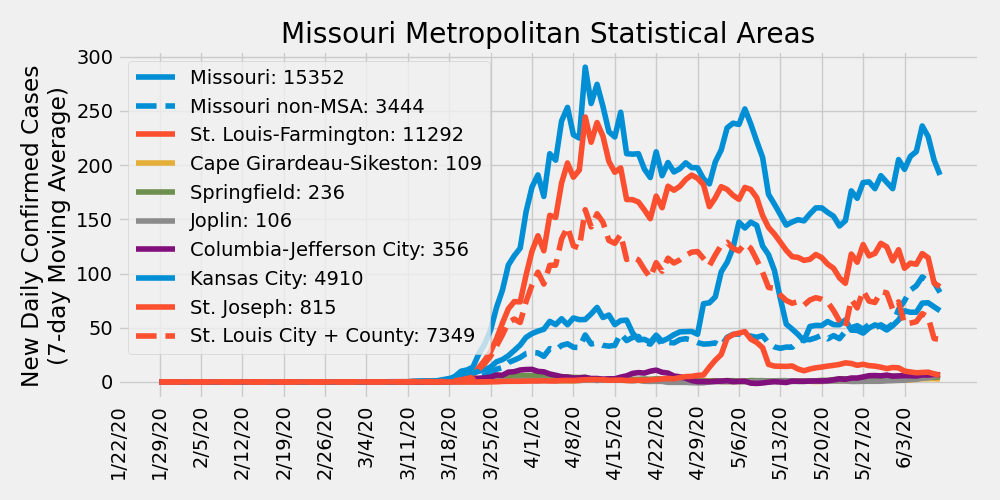
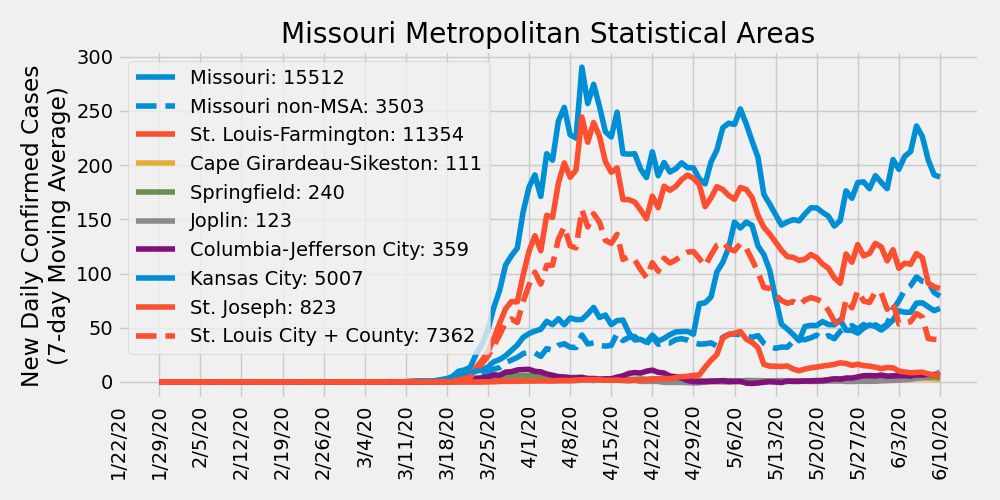
update 6/11/2020

diff --git a/ajvogt-analysis/missouri_analysis.md b/ajvogt-analysis/missouri_analysis.md
@@ -1,6 +1,6 @@
 # COVID-19 Missouri Statistics & Regional Breakdowns
 Author: Adam J. Vogt  
-Updated: 06/10/2020  
+Updated: 06/11/2020  
 Source: [COVID-19 Data Repository by the Center for Systems Science and Engineering (CSSE) at Johns Hopkins University](https://github.com/CSSEGISandData/COVID-19)  
 Source Code: `/ajvogt-analysis/mo_analysis_script.py`
 
